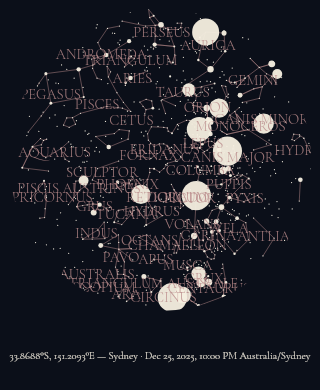
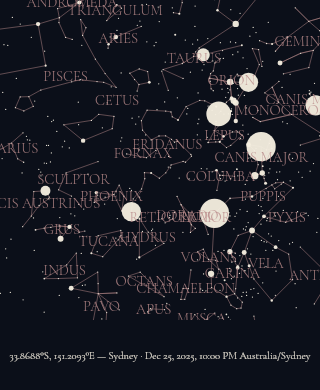
feat(site): fill the square poster with the inscribed sky
Square zooms so it is inscribed in the horizon disc (corners on the horizon,
half-side 1/sqrt(2)) and clips to the square in canvas, SVG and PDF through one
geometry function. Circle output is unchanged; the square reference and the
square standard pin are regenerated.

Refs #62

diff --git a/site/src/lib/render/poster.ts b/site/src/lib/render/poster.ts
@@ -20,7 +20,7 @@
  * hard-coded here (constitution II).
  */
 import { formatDetailLine } from "../caption.ts";
-import type { SharePayload } from "../share.ts";
+import type { Shape, SharePayload } from "../share.ts";
 import type { SkyModel, VisibleStar } from "../skymodel.ts";
 import { AXIS_EXTENT } from "../skymodel.ts";
 import { SPEC } from "../spec.ts";
@@ -45,11 +45,36 @@ export interface PosterGeometry {
   canvasHeight: number;
   /** Device pixels per logical pixel (for the backing store). */
   dpr: number;
+  /** The sky shape this geometry draws (BCR-0014). */
+  shape: Shape;
+  /**
+   * Unit-disc half-extent the sky square spans: `AXIS_EXTENT` for the circle,
+   * `1 / sqrt(2)` for a square inscribed in the horizon disc.
+   */
+  extent: number;
 }
 
-export function posterGeometry(sizePx: number): PosterGeometry {
+/**
+ * The one place the shape decides how far the sky square reaches in unit-disc
+ * terms (BCR-0014). Canvas, SVG and PDF all read it through `posterGeometry`.
+ * The inscribed square has half-side `1 / sqrt(2)`: its corners sit at unit
+ * radius 1, on the horizon, so nothing below the horizon is ever drawn.
+ */
+export function skyExtent(shape: Shape): number {
+  if (shape === "square" && SPEC.shape.square.fill === "inscribed") {
+    return 1 / Math.SQRT2;
+  }
+  return AXIS_EXTENT;
+}
+
+export function posterGeometry(
+  sizePx: number,
+  shape: Shape = "circle",
+): PosterGeometry {
   const bandPx = sizePx * SPEC.caption.bandFraction;
   return {
+    shape,
+    extent: skyExtent(shape),
     sizePx,
     skyPx: sizePx,
     bandPx,
@@ -102,7 +127,7 @@ export function unitToCanvas(
   const cx = geometry.sizePx / 2;
   const cy = geometry.skyPx / 2;
   const half = geometry.sizePx / 2;
-  return [cx + (u / AXIS_EXTENT) * half, cy + (v / AXIS_EXTENT) * half];
+  return [cx + (u / geometry.extent) * half, cy + (v / geometry.extent) * half];
 }
 
 /**
@@ -134,6 +159,36 @@ function starRadiusPx(star: VisibleStar): number {
  */
 function pointsToPx(points: number): number {
   return points * (REFERENCE_DPI / 72);
+}
+
+/**
+ * Whether a unit-disc point lies inside the sky's drawn square. Labels use it:
+ * one whose anchor falls outside is not drawn (BCR-0014); one that merely
+ * crosses the edge is clipped by the sky clip, never moved.
+ */
+export function insideSkySquare(
+  u: number,
+  v: number,
+  geometry: PosterGeometry,
+): boolean {
+  return Math.abs(u) <= geometry.extent && Math.abs(v) <= geometry.extent;
+}
+
+/**
+ * Add the sky's clip shape to the current path: the horizon disc for the
+ * circle, the whole sky square for the inscribed square (BCR-0014).
+ */
+function skyClipPath(
+  ctx: CanvasRenderingContext2D,
+  geometry: PosterGeometry,
+): void {
+  if (geometry.shape === "square") {
+    ctx.rect(0, 0, geometry.sizePx, geometry.skyPx);
+    return;
+  }
+  const [cx, cy] = unitToCanvas(0, 0, geometry);
+  const radius = (1 / geometry.extent) * (geometry.sizePx / 2);
+  ctx.arc(cx, cy, radius, 0, Math.PI * 2);
 }
 
 function drawSegments(
@@ -179,14 +234,14 @@ export function drawFocusOverlay(
   options: SharePayload["options"],
 ): void {
   const [cx, cy] = unitToCanvas(0, 0, geometry);
-  const radius = (1 / AXIS_EXTENT) * (geometry.sizePx / 2);
+  const radius = (1 / geometry.extent) * (geometry.sizePx / 2);
   if (focused < 0 || focused >= model.figures.length) return;
   const figure = model.figures[focused];
 
   ctx.save();
   // Veil: dim everything inside the disc.
   ctx.beginPath();
-  ctx.arc(cx, cy, radius, 0, Math.PI * 2);
+  skyClipPath(ctx, geometry);
   ctx.clip();
   ctx.fillStyle = withAlpha(SPEC.colors.background, 0.62);
   ctx.fillRect(
@@ -224,6 +279,10 @@ export function drawFocusOverlay(
     const ux = (figure.centroidX - preview.diskCx) / preview.diskR;
     const uy = (figure.centroidY - preview.diskCy) / preview.diskR;
     const [lx, ly] = unitToCanvas(ux, uy, geometry);
+    if (!insideSkySquare(ux, uy, geometry)) {
+      ctx.restore();
+      return;
+    }
     ctx.textAlign = "center";
     ctx.textBaseline = "middle";
     ctx.font = `${pointsToPx(SPEC.constellations.labelFontSize).toString()}px "Cormorant Garamond", serif`;
@@ -291,6 +350,7 @@ function drawLabels(
     // round-trip as the focus overlay: plus on y, exact at the unified scale.
     const ux = (figure.centroidX - preview.diskCx) / preview.diskR;
     const uy = (figure.centroidY - preview.diskCy) / preview.diskR;
+    if (!insideSkySquare(ux, uy, geometry)) continue;
     const [x, y] = unitToCanvas(ux, uy, geometry);
     // render-spec pins labelUppercase: true (guarded by spec.test.ts).
     const label = figure.name.toUpperCase();
@@ -303,7 +363,7 @@ function drawRing(
   geometry: PosterGeometry,
 ): void {
   const [cx, cy] = unitToCanvas(0, 0, geometry);
-  const radius = (1 / AXIS_EXTENT) * (geometry.sizePx / 2);
+  const radius = (1 / geometry.extent) * (geometry.sizePx / 2);
   ctx.strokeStyle = withAlpha(RING_COLOR, SPEC.shape.ringAlpha);
   ctx.lineWidth = pointsToPx(SPEC.shape.ringWidth);
   ctx.beginPath();
@@ -448,7 +508,7 @@ function applyCircleMask(
   geometry: PosterGeometry,
 ): void {
   const [cx, cy] = unitToCanvas(0, 0, geometry);
-  const radius = (1 / AXIS_EXTENT) * (geometry.sizePx / 2);
+  const radius = (1 / geometry.extent) * (geometry.sizePx / 2);
   ctx.save();
   // `destination-in` keeps the destination only where the new shape is
   // opaque, so the fill colour is irrelevant — but it must be fully opaque
@@ -479,7 +539,7 @@ export function renderPoster(
   /** Vertical offset of the poster in logical px; the story format's margin. */
   offsetY = 0,
 ): PosterGeometry {
-  const geometry = posterGeometry(sizePx);
+  const geometry = posterGeometry(sizePx, payload.options.shape);
   geometry.dpr = dpr;
 
   ctx.setTransform(dpr, 0, 0, dpr, 0, offsetY * dpr);
@@ -488,10 +548,8 @@ export function renderPoster(
 
   // Sky is clipped to the disc/square, matching the preview's clip.
   ctx.save();
-  const [cx, cy] = unitToCanvas(0, 0, geometry);
-  const radius = (1 / AXIS_EXTENT) * (geometry.sizePx / 2);
   ctx.beginPath();
-  ctx.arc(cx, cy, radius, 0, Math.PI * 2);
+  skyClipPath(ctx, geometry);
   ctx.clip();
 
   if (payload.options.constellations) {
@@ -574,7 +632,7 @@ export function renderPosterToCanvas(
     renderStory(ctx, payload, model, preview, dpr);
     return canvas;
   }
-  const geometry = posterGeometry(sizePx);
+  const geometry = posterGeometry(sizePx, payload.options.shape);
   canvas.width = Math.round(geometry.sizePx * dpr);
   canvas.height = Math.round(geometry.canvasHeight * dpr);
   const ctx = canvas.getContext("2d");

diff --git a/site/src/lib/render/poster.test.ts b/site/src/lib/render/poster.test.ts
@@ -12,6 +12,7 @@ import { buildPosterSvg } from "./export.ts";
 import {
   AXIS_EXTENT,
   REFERENCE_DPI,
+  insideSkySquare,
   posterGeometry,
   unitToCanvas,
 } from "./poster.ts";
@@ -205,5 +206,60 @@ describe("star geometry (parity harness finding)", () => {
     const largeMatch = large.match(/font-size="([\d.]+)"[^>]*text-anchor/);
     expect(largeMatch).not.toBeNull();
     expect(match?.[1]).toBe(largeMatch?.[1]);
+  });
+});
+
+describe("square fill geometry (BCR-0014)", () => {
+  it("circle keeps today's mapping exactly", () => {
+    const g = posterGeometry(800);
+    expect(g.extent).toBe(AXIS_EXTENT);
+    expect(posterGeometry(800, "circle").extent).toBe(AXIS_EXTENT);
+    expect(unitToCanvas(0.3, -0.4, g)).toEqual([
+      400 + (0.3 / AXIS_EXTENT) * 400,
+      400 + (-0.4 / AXIS_EXTENT) * 400,
+    ]);
+  });
+
+  it("keeps the centre of a square where it was", () => {
+    const g = posterGeometry(800, "square");
+    expect(unitToCanvas(0, 0, g)).toEqual([400, 400]);
+  });
+
+  it("maps the square's corners to unit radius 1 (on the horizon)", () => {
+    const g = posterGeometry(800, "square");
+    const unit = 1 / Math.SQRT2;
+    expect(g.extent).toBeCloseTo(unit, 12);
+    // Each pixel corner of the sky square is a unit-disc point of radius 1.
+    for (const [px, py] of [[0, 0], [800, 0], [0, 800], [800, 800]] as const) {
+      const u = ((px - 400) / 400) * g.extent;
+      const v = ((py - 400) / 400) * g.extent;
+      expect(Math.hypot(u, v)).toBeCloseTo(1, 12);
+    }
+    const [x, y] = unitToCanvas(unit, unit, g);
+    expect(x).toBeCloseTo(800, 9);
+    expect(y).toBeCloseTo(800, 9);
+  });
+
+  it("zooms the square by sqrt(2) * AXIS_EXTENT relative to the circle", () => {
+    const c = posterGeometry(800, "circle");
+    const s = posterGeometry(800, "square");
+    expect(c.extent / s.extent).toBeCloseTo(Math.SQRT2 * AXIS_EXTENT, 12);
+  });
+
+  it("draws nothing below the horizon: the square never exceeds unit radius 1", () => {
+    const s = posterGeometry(800, "square");
+    expect(Math.hypot(s.extent, s.extent)).toBeLessThanOrEqual(1 + 1e-12);
+  });
+
+  it("insideSkySquare gates labels on the drawn square", () => {
+    const s = posterGeometry(800, "square");
+    expect(insideSkySquare(0.7, -0.7, s)).toBe(true);
+    expect(insideSkySquare(0.72, 0, s)).toBe(false);
+    expect(insideSkySquare(0.72, 0, posterGeometry(800, "circle"))).toBe(true);
+  });
+
+  it("square SVG clips to the sky square, not a disc", () => {
+    const svg = buildPosterSvg(makePayload({ shape: "square" }), makeModel([star()]), 800);
+    expect(svg).toContain('<clipPath id="disc"><rect x="0" y="0" width="800" height="800"/>');
   });
 });

diff --git a/site/src/lib/render/export.ts b/site/src/lib/render/export.ts
@@ -17,8 +17,8 @@ import {
 } from "./caption.ts";
 import { type PosterFormat, storyGeometry, storyMargin } from "./format.ts";
 import {
-  AXIS_EXTENT,
   REFERENCE_DPI,
+  insideSkySquare,
   posterGeometry,
   unitToCanvas,
 } from "./poster.ts";
@@ -70,9 +70,9 @@ export function buildPosterSvg(
   format: PosterFormat = "standard",
 ): string {
   if (format === "story") sizePx = storyGeometry().widthPx;
-  const geometry = posterGeometry(sizePx);
+  const geometry = posterGeometry(sizePx, payload.options.shape);
   const [cx, cy] = unitToCanvas(0, 0, geometry);
-  const radius = (1 / AXIS_EXTENT) * (sizePx / 2);
+  const radius = (1 / geometry.extent) * (sizePx / 2);
   const parts: string[] = [];
 
   const pageHeight =
@@ -123,6 +123,7 @@ export function buildPosterSvg(
     for (const figure of model.figures) {
       const ux = (figure.centroidX - previewCx) / previewR;
       const uy = (figure.centroidY - previewCy) / previewR;
+      if (!insideSkySquare(ux, uy, geometry)) continue;
       const [x, y] = unitToCanvas(ux, uy, geometry);
       const label = figure.name.toUpperCase();
       parts.push(
@@ -167,7 +168,9 @@ export function buildPosterSvg(
   parts.push(`</g>`);
 
   parts.push(
-    `<defs><clipPath id="disc"><circle cx="${cx.toFixed(2)}" cy="${cy.toFixed(2)}" r="${radius.toFixed(2)}"/></clipPath></defs>`,
+    payload.options.shape === "square"
+      ? `<defs><clipPath id="disc"><rect x="0" y="0" width="${sizePx.toString()}" height="${geometry.skyPx.toString()}"/></clipPath></defs>`
+      : `<defs><clipPath id="disc"><circle cx="${cx.toFixed(2)}" cy="${cy.toFixed(2)}" r="${radius.toFixed(2)}"/></clipPath></defs>`,
   );
   if (format === "story") parts.push(`</g>`);
   parts.push(`</svg>`);
@@ -209,7 +212,7 @@ export async function exportPdf(
   const svg = buildPosterSvg(payload, model, sizePx, undefined, format);
   const { jsPDF } = await import("jspdf");
   const { svg2pdf } = await import("svg2pdf.js");
-  const geometry = posterGeometry(sizePx);
+  const geometry = posterGeometry(sizePx, payload.options.shape);
   const pageHeight =
     format === "story" ? storyGeometry().heightPx : geometry.canvasHeight;
   const doc = new jsPDF({

diff --git a/site/src/lib/render/standard-pin.test.ts b/site/src/lib/render/standard-pin.test.ts
@@ -2,6 +2,8 @@
  * FR-002 / BCR-0012: with no story option the SVG is byte-identical to what it
  * was before the story format existed. The hashes were captured from the code
  * before any story change, from a synthetic model so no sky data is involved.
+ * The square hash was re-pinned for BCR-0014 (the square now fills its square);
+ * the circle hash is unchanged.
  */
 import { createHash } from "node:crypto";
 import { describe, expect, it } from "bun:test";
@@ -63,7 +65,7 @@ describe("standard SVG is pinned (FR-002)", () => {
   });
   it("square, untitled, 800", () => {
     expect(sha(buildPosterSvg(payload({ shape: "square", title: null }), MODEL, 800))).toBe(
[2 lines of base64/hex data omitted]
     );
   });
 });

diff --git a/site/src/lib/spec.test.ts b/site/src/lib/spec.test.ts
@@ -61,6 +61,7 @@ describe("render-spec conformance", () => {
     const shape = renderSpec["shape"];
     eq(SPEC.shape.ringWidth, shape["ringWidth"]);
     eq(SPEC.shape.ringAlpha, shape["ringAlpha"]);
+    expect((shape["square"] as { fill: string }).fill).toBe(SPEC.shape.square.fill);
     const caption = renderSpec["caption"];
     eq(SPEC.caption.bandFraction, caption["bandFraction"]);
     eq(SPEC.caption.titleFontSize, caption["titleFontSize"]);

diff --git a/site/src/lib/spec.ts b/site/src/lib/spec.ts
@@ -2,6 +2,8 @@
  * Normative visual tokens mirrored from `site/render-spec.json`.
  * Change both together; `src/tests/spec.test.ts` guards against drift.
  */
+const SQUARE_FILL: string = "inscribed";
+
 export const SPEC = {
   units: {
     referenceDpi: 150,
@@ -30,6 +32,9 @@ export const SPEC = {
   shape: {
     ringWidth: 2.0,
     ringAlpha: 0.9,
+    square: {
+      fill: SQUARE_FILL,
+    },
   },
   caption: {
     bandFraction: 0.22,

diff --git a/site/src/lib/render/index.ts b/site/src/lib/render/index.ts
@@ -9,6 +9,8 @@ export {
   AXIS_EXTENT,
   drawFocusOverlay,
   posterGeometry,
+  skyExtent,
+  insideSkySquare,
   renderPoster,
   renderPosterToCanvas,
   unitToCanvas,
